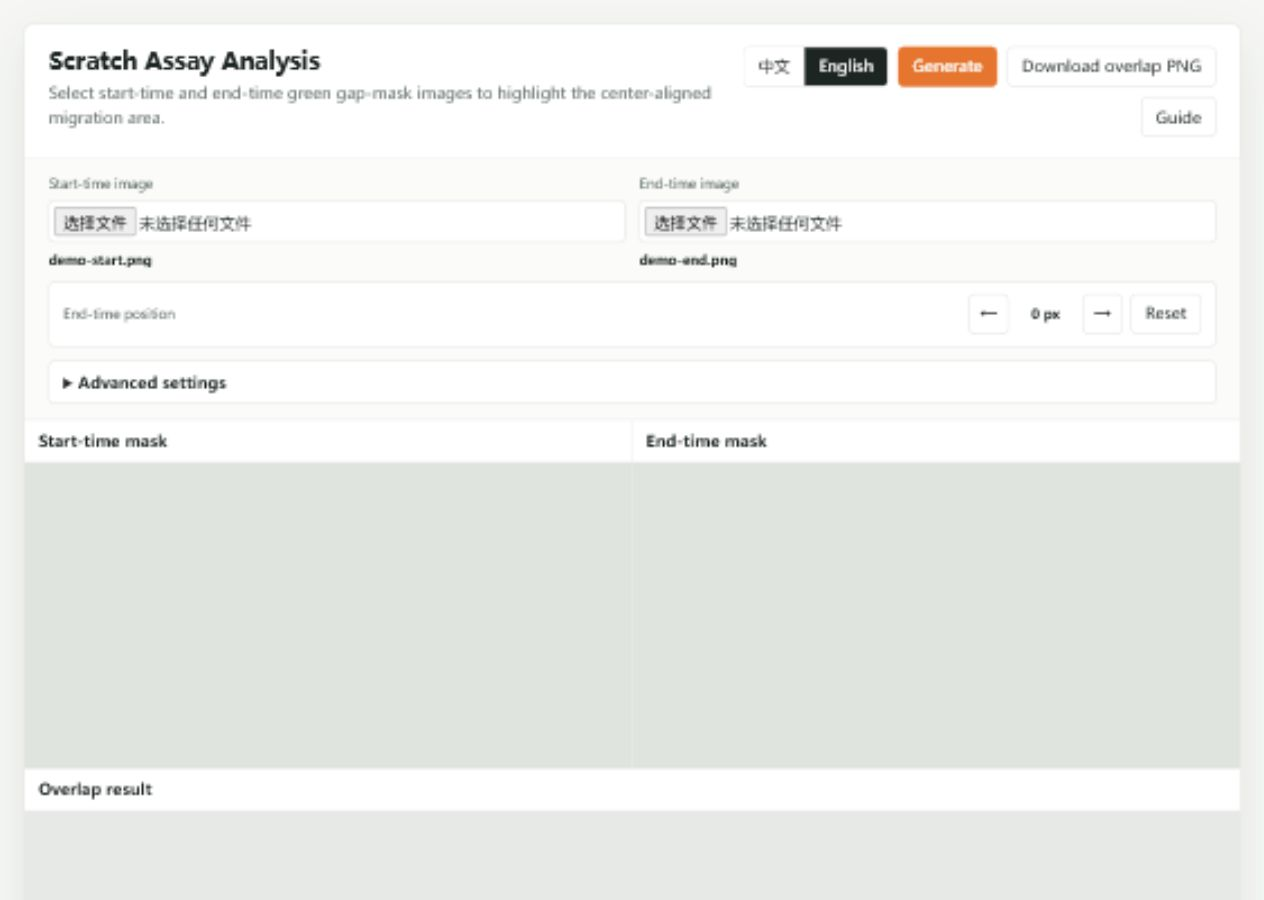
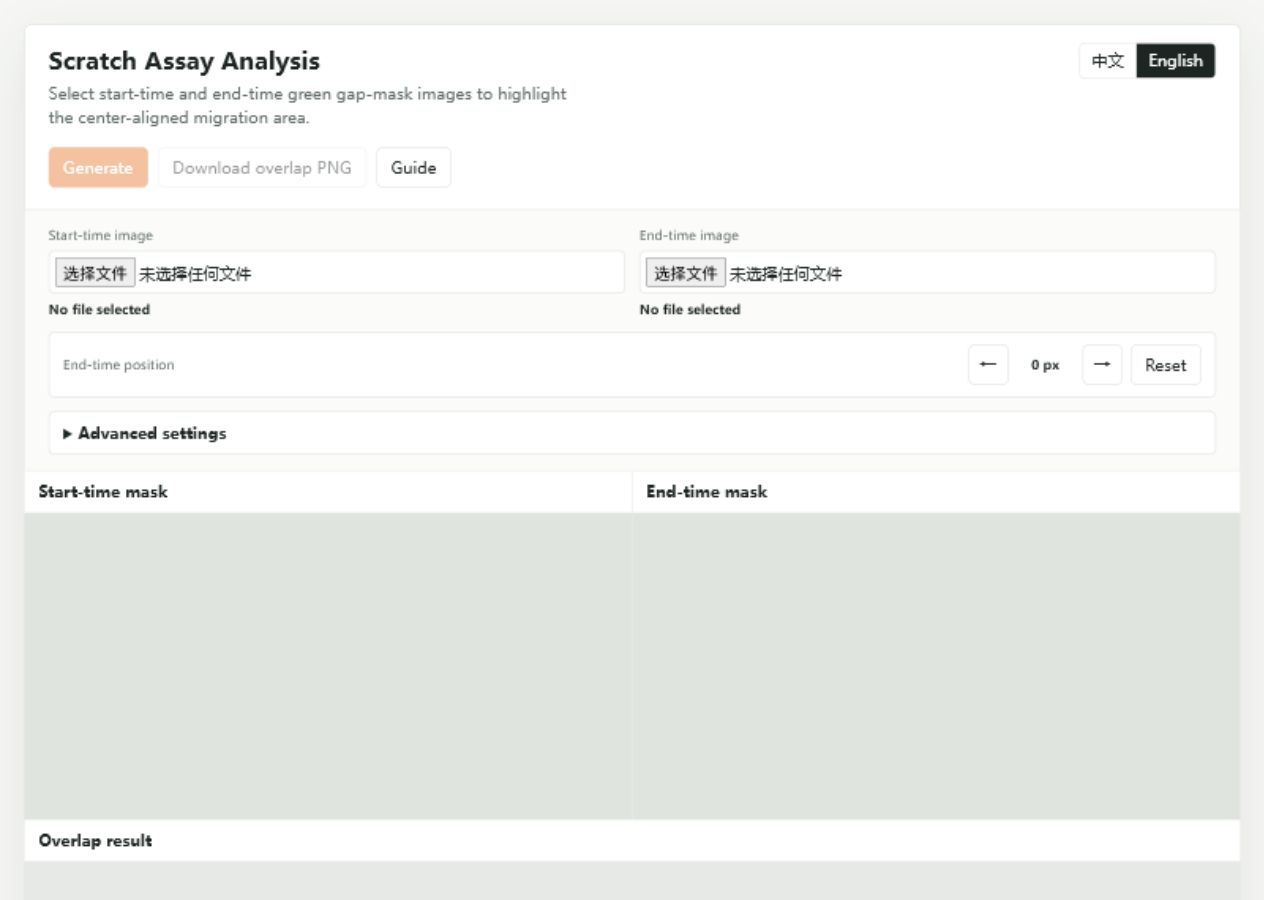
Move main language toggle to header corner

diff --git a/styles.css b/styles.css
@@ -45,12 +45,32 @@ input {
 }
 
 .topbar {
-  display: flex;
-  align-items: flex-start;
-  justify-content: space-between;
-  gap: 20px;
+  position: relative;
+  display: block;
   padding: 22px 24px;
   border-bottom: 1px solid var(--line);
+}
+
+.topbar-copy {
+  max-width: 760px;
+  padding-right: 220px;
+}
+
+.app-language {
+  position: absolute;
+  top: 18px;
+  right: 24px;
+  display: flex;
+  justify-content: flex-end;
+}
+
+.app-language .language-toggle {
+  min-height: 36px;
+}
+
+.app-language .language-toggle button {
+  min-height: 34px;
+  padding: 0 12px;
 }
 
 h1 {
@@ -69,7 +89,11 @@ p {
   display: flex;
   flex-wrap: wrap;
   gap: 10px;
-  justify-content: flex-end;
+}
+
+.tool-actions {
+  margin-top: 18px;
+  justify-content: flex-start;
 }
 
 button {
@@ -511,10 +535,6 @@ canvas {
 }
 
 @media (max-width: 1080px) {
-  .topbar {
-    flex-direction: column;
-  }
-
   .controls,
   .advanced-grid,
   .metrics {
@@ -549,6 +569,15 @@ canvas {
   .actions {
     width: 100%;
     justify-content: stretch;
+  }
+
+  .app-language {
+    position: static;
+    margin-bottom: 18px;
+  }
+
+  .topbar-copy {
+    padding-right: 0;
   }
 
   .actions button {

diff --git a/index.html b/index.html
@@ -10,15 +10,17 @@
     <main class="app-shell">
       <section class="workspace" aria-label="Scratch assay analysis">
         <header class="topbar">
-          <div>
-            <h1 data-i18n="appTitle">Scratch Assay Analysis</h1>
-            <p data-i18n="subtitle">Select start-time and end-time green gap-mask images to highlight the center-aligned migration area.</p>
-          </div>
-          <div class="actions">
+          <div class="app-language">
             <div class="language-toggle" role="group" aria-label="语言 / Language">
               <button id="langZhButton" type="button" data-lang="zh" aria-pressed="false">中文</button>
               <button id="langEnButton" type="button" data-lang="en" aria-pressed="true">English</button>
             </div>
+          </div>
+          <div class="topbar-copy">
+            <h1 data-i18n="appTitle">Scratch Assay Analysis</h1>
+            <p data-i18n="subtitle">Select start-time and end-time green gap-mask images to highlight the center-aligned migration area.</p>
+          </div>
+          <div class="actions tool-actions">
             <button id="runButton" type="button" data-i18n="runButton" disabled>Generate</button>
             <button id="downloadButton" type="button" data-i18n="downloadPngButton" disabled>Download overlap PNG</button>
             <a class="button-link" href="./guide.html" data-i18n="guideLink">Guide</a>